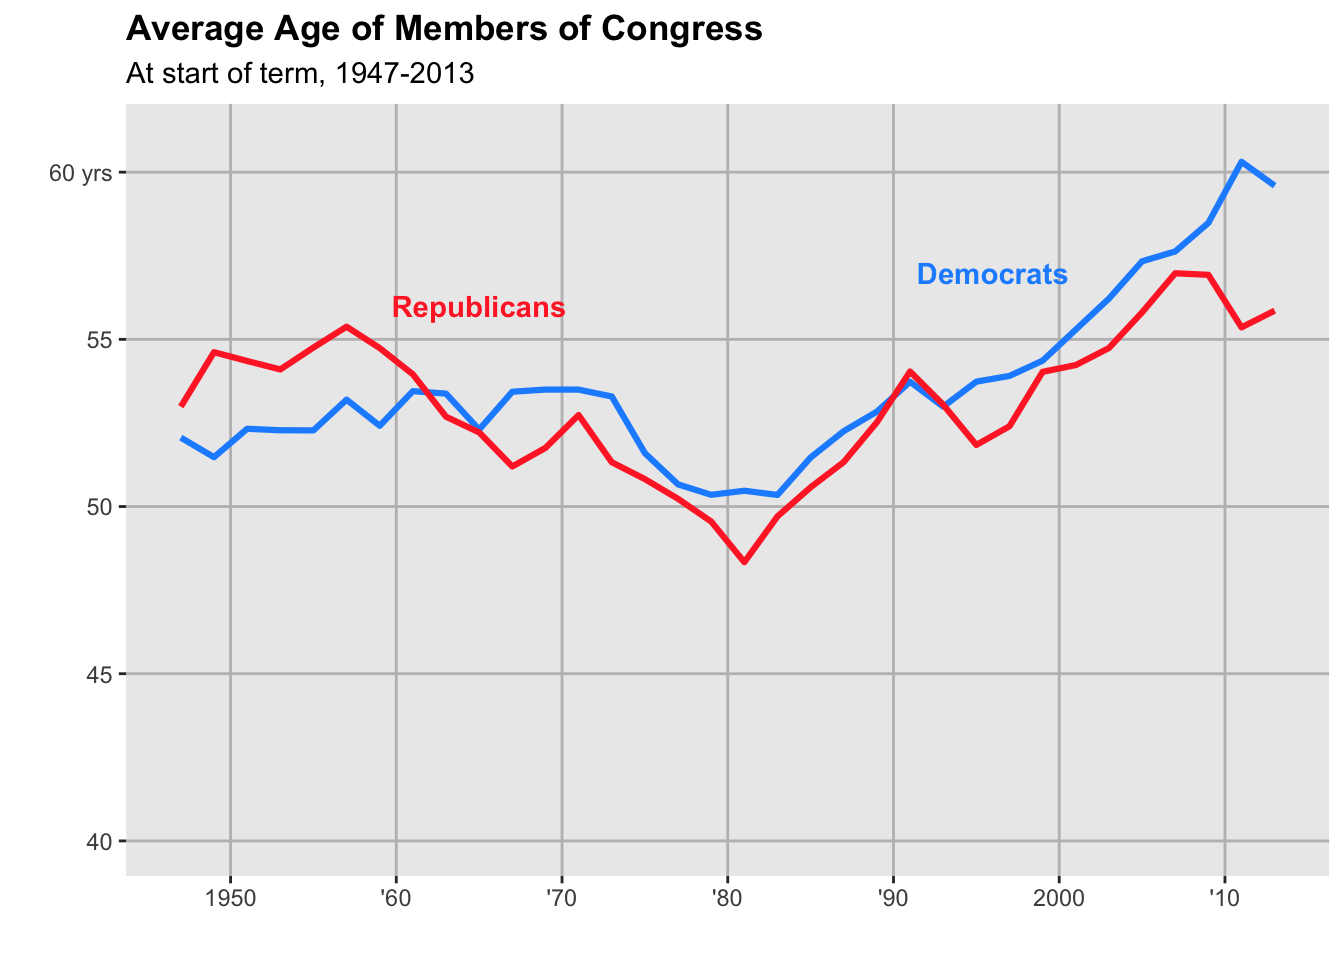
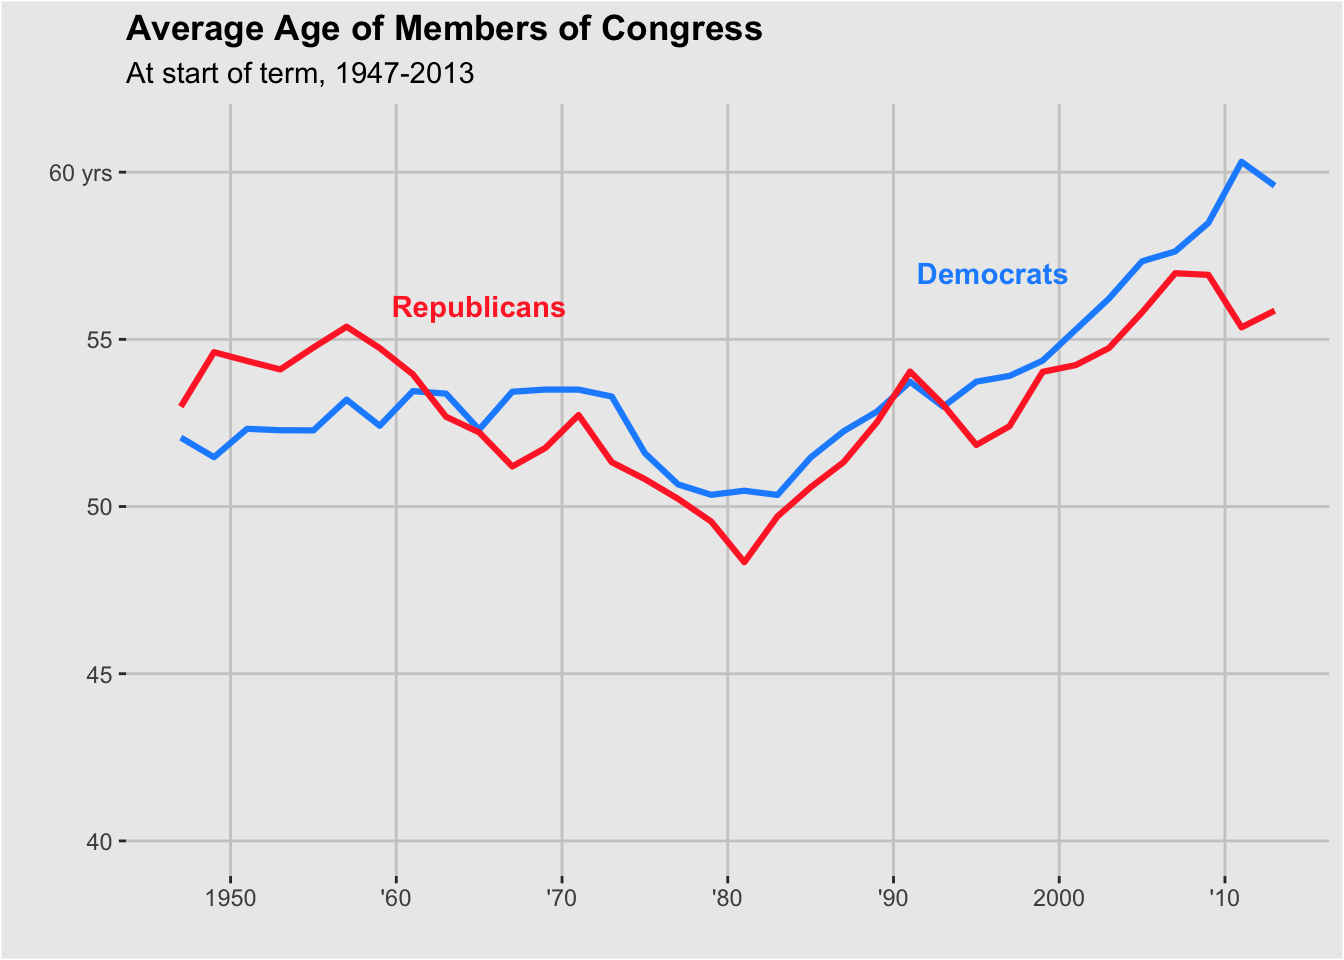
Tweaking
plots

Changed region(s): [[0.0, 0.0, 1.0, 1.0]]

diff --git a/docs/visualization.html b/docs/visualization.html
@@ -452,8 +452,13 @@ new<span class="op">$</span>year2 &lt;-<span class="st"> </span>lubridate<span c
 
 <span class="st">  </span><span class="kw">theme</span>(<span class="dt">panel.grid.minor =</span>   <span class="kw">element_blank</span>(), <span class="dt">panel.grid.major =</span>   <span class="kw">element_line</span>(<span class="dt">colour =</span> <span class="st">&quot;gray&quot;</span>,<span class="dt">size=</span><span class="fl">0.5</span>)) <span class="op">+</span><span class="st"> </span><span class="co">#adjusting grid</span>
 <span class="st">  </span>
-<span class="st">  </span><span class="kw">theme</span>(<span class="dt">plot.title =</span> <span class="kw">element_text</span>(<span class="dt">face =</span> <span class="st">&quot;bold&quot;</span>)) <span class="co">#bolding title</span>
-
+<span class="st">  </span><span class="kw">theme</span>(<span class="dt">plot.title =</span> <span class="kw">element_text</span>(<span class="dt">face =</span> <span class="st">&quot;bold&quot;</span>)) <span class="op">+</span><span class="st">  </span><span class="co">#bolding title </span>
+<span class="st">  </span>
+<span class="st">  </span><span class="kw">theme</span>(<span class="dt">panel.grid.minor.x =</span> <span class="kw">element_blank</span>(),
+      <span class="dt">panel.grid.minor.y =</span> <span class="kw">element_blank</span>(),
+      <span class="dt">panel.grid.major =</span> <span class="kw">element_line</span>(<span class="dt">colour =</span> <span class="st">&quot;#cccccc&quot;</span>),
+      <span class="dt">plot.background =</span> <span class="kw">element_rect</span>(<span class="dt">fill =</span> <span class="st">&quot;#EBEBEB&quot;</span>))
+<span class="co"># this brings the title into the figure</span>
 
 <span class="kw">print</span>(p)</code></pre></div>
 <p><img src="visualization_files/figure-html/unnamed-chunk-3-1.png" width="672" /></p>
